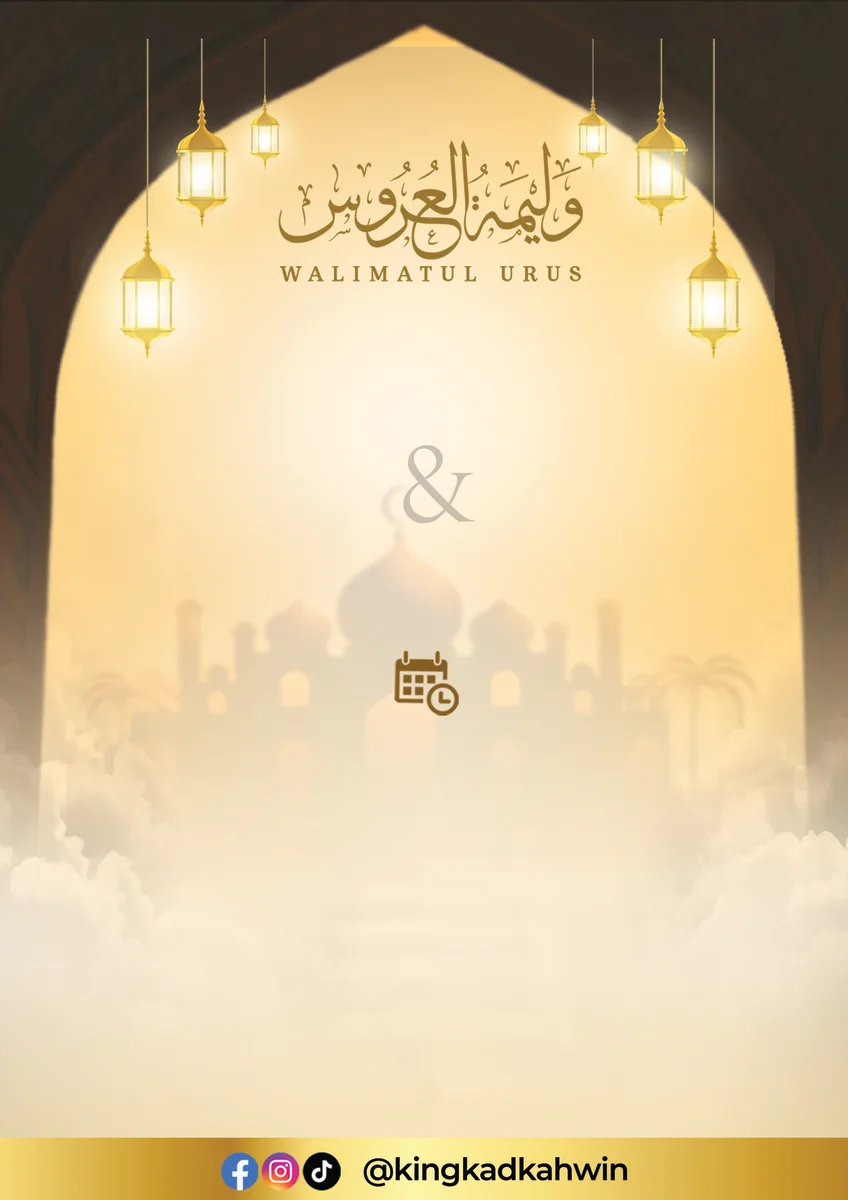
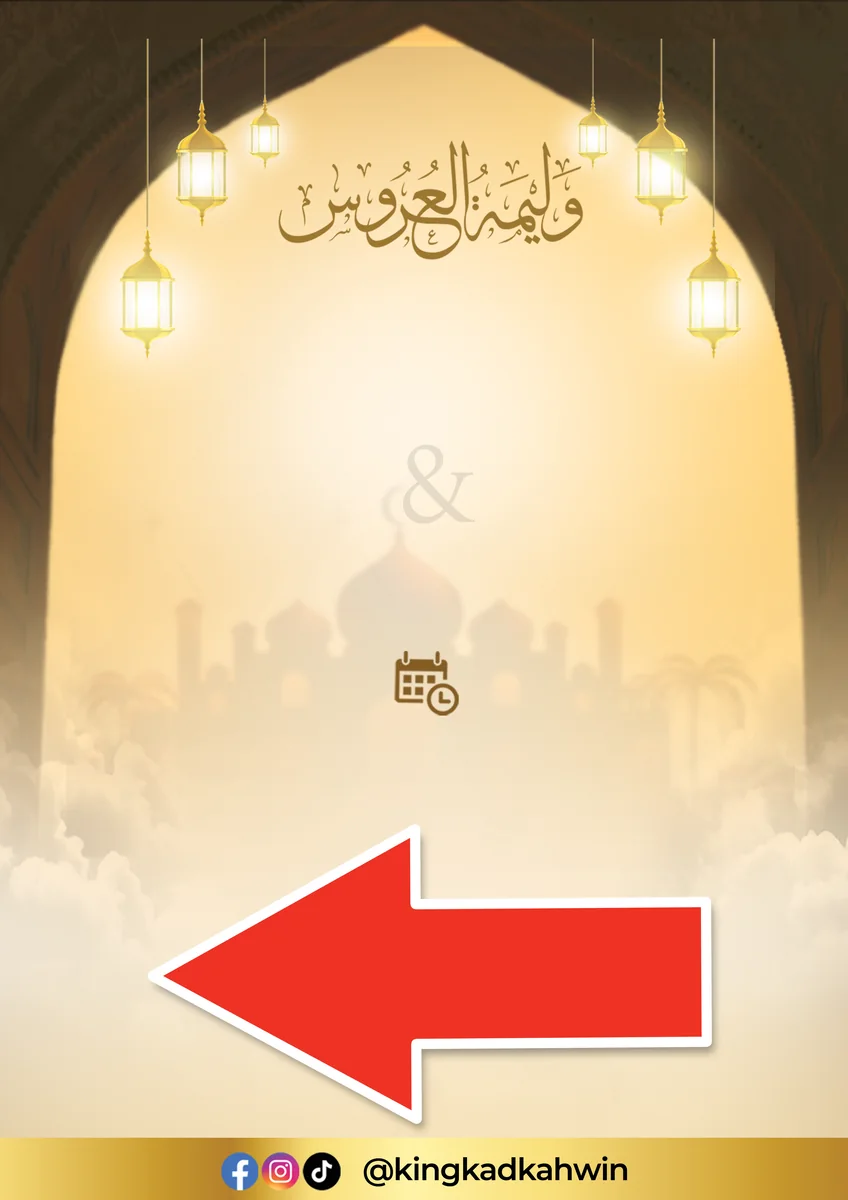
Fix missing catalog arrow previews

diff --git a/public/css/customer-preview-layout.css b/public/css/customer-preview-layout.css
@@ -2798,6 +2798,7 @@
     --preview-aspect-ratio: 310 / 437;
 }
 
+[data-preview-artwork-slot="arrow-left"][data-design-code="CKQ-007"],
 [data-preview-artwork-slot="arrow-right"][data-design-code="CKQ-007"] {
     --preview-couple-x: 51.59%;
     --preview-couple-y: 40.59%;
@@ -4110,18 +4111,7 @@
 
 /* Islamic */
 
-[data-preview-artwork-slot="arrow-left"][data-design-code="CKI-801"] {
-    --preview-couple-x: 51.75%;
-    --preview-couple-y: 40.35%;
-    --preview-couple-width: 84%;
-    --preview-ampersand-width: 10.04%;
-    --preview-ampersand-visibility: hidden;
-    --preview-kicker-display: none;
-    --preview-date-x: 50.43%;
-    --preview-date-y: 65.08%;
-    --preview-aspect-ratio: 620 / 877;
-}
-
+[data-preview-artwork-slot="arrow-left"][data-design-code="CKI-801"],
 [data-preview-artwork-slot="arrow-right"][data-design-code="CKI-801"] {
     --preview-couple-x: 51.75%;
     --preview-couple-y: 40.35%;
@@ -5323,6 +5313,7 @@
     --preview-aspect-ratio: 1 / 1;
 }
 
+[data-preview-artwork-slot="arrow-left"][data-design-code="CKI-816"],
 [data-preview-artwork-slot="arrow-right"][data-design-code="CKI-816"] {
     --preview-couple-x: 50.34%;
     --preview-couple-y: 43.8%;

diff --git a/public/css/customer-theme.css b/public/css/customer-theme.css
@@ -1667,17 +1667,19 @@ html[data-customer-theme="dark"] .wedding-card-back .card-social-logo {
     z-index: 2;
 }
 
-.catalog-left-arrow-marker {
+.live-product[data-artwork-unavailable] {
+    background: var(--surface, #f8f6f0);
+}
+
+.live-product[data-artwork-unavailable]::before,
+.live-product[data-artwork-unavailable]::after {
     display: none;
 }
 
-.live-product--arrow-left[data-design-code="CKI-801"] .catalog-left-arrow-marker {
-    position: absolute;
-    z-index: 1;
-    top: 67%;
-    left: 15%;
-    display: block;
-    width: 70%;
-    height: 28%;
-    filter: drop-shadow(2px 3px 2px #0004);
+.artwork-unavailable-message {
+    margin: auto;
+    padding: 1.5rem;
+    color: #625b4e;
+    font: 500 0.875rem/1.6 system-ui, sans-serif;
+    text-align: center;
 }

diff --git a/resources/views/orders/dashboard.blade.php b/resources/views/orders/dashboard.blade.php
@@ -1398,9 +1398,7 @@ document.addEventListener('DOMContentLoaded', function () {
         const artworkBase = @json(asset('images/designs'));
         const artworkDesignCodes = JSON.parse(form.dataset.designCodeOptions || '{}');
         const unavailableArtwork = {
-            'CKI-816': ['arrow-left'],
             'CKP-003': ['banner'],
-            'CKQ-007': ['arrow-left'],
         };
 
         function syncArtworkImage(image, source, label) {
@@ -1483,19 +1481,25 @@ document.addEventListener('DOMContentLoaded', function () {
                 const genericNameCopy = nameOverlay.querySelector('[data-desa-generic-copy]');
                 const productCustomNameCopy = nameOverlay.querySelector('[data-desa-product-custom-copy]');
                 const placeholder = product.querySelector('[data-desa-product-placeholder]');
+                const unavailableMessage = product.querySelector('[data-artwork-unavailable-message]');
+                const isUnavailable = hasArtwork && (unavailableArtwork[normalizedCode] || []).includes(type);
                 const isVipCard = type === 'vip-card';
                 const shouldShowArtwork = hasArtwork
                     && (!isVipCard || theme === 'portrait')
-                    && !(unavailableArtwork[normalizedCode] || []).includes(type);
+                    && !isUnavailable;
                 product.dataset.designCode = shouldShowArtwork ? normalizedCode : '';
                 product.toggleAttribute('data-design-artwork', shouldShowArtwork);
                 product.toggleAttribute('data-catalog-artwork', shouldShowArtwork && isCatalogArtwork);
+                product.toggleAttribute('data-artwork-unavailable', isUnavailable);
+                if (unavailableMessage) {
+                    unavailableMessage.hidden = !isUnavailable;
+                }
 
                 product.hidden = (type === 'card-back' || isVipCard) && !shouldShowArtwork;
                 nameOverlay.hidden = !shouldShowArtwork;
                 genericNameCopy.hidden = shouldShowArtwork;
                 productCustomNameCopy.hidden = !shouldShowArtwork;
-                placeholder.hidden = shouldShowArtwork;
+                placeholder.hidden = shouldShowArtwork || isUnavailable;
                 syncArtworkImage(artwork, shouldShowArtwork ? assetBase + type + '.webp' : '', normalizedCode + ' ' + themeName + ' ' + type.replaceAll('-', ' ') + ' design');
                 const hasPhotoMask = shouldShowArtwork && theme === 'portrait' && type !== 'wooden-hanger' && type !== 'card-back';
                 syncArtworkPhotoMask(product, hasPhotoMask ? assetBase + type + '-photo-mask.webp' : '');
@@ -1976,7 +1980,8 @@ document.addEventListener('DOMContentLoaded', function () {
                 const product = image.closest('.live-product');
                 const isBannerOrBunting = product?.classList.contains('live-product--banner')
                     || product?.classList.contains('live-product--banting');
-                const showProductPhoto = Boolean(photoUrl) && (theme === 'PORTRAIT' || isBannerOrBunting);
+                const showProductPhoto = Boolean(photoUrl) && (theme === 'PORTRAIT' || isBannerOrBunting)
+                    && !product?.hasAttribute('data-artwork-unavailable');
 
                 setImageSource(image, photoUrl, showProductPhoto);
             });

diff --git a/resources/views/orders/partials/card-preview.blade.php b/resources/views/orders/partials/card-preview.blade.php
@@ -195,6 +195,7 @@
 
             <div class="live-product-grid{{ ($order->package_type ?: $order->wabot_package_code) === 'PUTERI_MANIS' ? ' live-product-grid--puteri-manis' : '' }}">
                 <article class="live-product live-product--banner" data-live-product-theme data-desa-product="banner" data-preview-artwork-slot="banner">
+                    <p class="artwork-unavailable-message" data-artwork-unavailable-message hidden role="status">Banner preview is not available for this design yet.</p>
                     <img class="desa-product-artwork" data-desa-product-artwork alt="" hidden>
                                                             <div class="desa-product-name-overlay" data-desa-product-name-overlay hidden>
                         <div class="desa-product-generic-copy" data-desa-generic-copy>
@@ -238,9 +239,6 @@
 
                 <article class="live-product live-product--arrow live-product--arrow-left" data-live-product-theme data-desa-product="arrow-left" data-preview-artwork-slot="arrow-left">
                     <img class="desa-product-artwork" data-desa-product-artwork alt="" hidden>
-                    <svg class="catalog-left-arrow-marker" viewBox="0 0 600 250" preserveAspectRatio="none" aria-hidden="true" focusable="false">
-                        <path d="M22 125 260 20v52h315v106H260v52Z" fill="#ef2b1c" stroke="#fff" stroke-width="10" stroke-linejoin="round" />
-                    </svg>
                     <img class="catalog-preview-photo" data-live-photo-preview="artwork" alt="Uploaded customer photo preview" hidden>
                                                             <div class="desa-product-name-overlay" data-desa-product-name-overlay hidden>
                         <div class="desa-product-generic-copy" data-desa-generic-copy>

diff --git a/tests/Feature/Orders/CustomerDashboardAccessTest.php b/tests/Feature/Orders/CustomerDashboardAccessTest.php
@@ -88,7 +88,7 @@ class CustomerDashboardAccessTest extends TestCase
 
         $slots = ['arrow-left', 'arrow-right', 'banner', 'bunting', 'card-back', 'card-front', 'sticker', 'wooden-hanger'];
         $codeCounts = ['AKIKAH' => 8, 'ARCH' => 24, 'DESA' => 8, 'GARDEN' => 8, 'ISLAMIC' => 24, 'NOSTALGIA' => 8, 'PORTRAIT' => 8];
-        $missingArtwork = ['CKI-816' => 'arrow-left', 'CKP-003' => 'banner', 'CKQ-007' => 'arrow-left'];
+        $missingArtwork = ['CKP-003' => 'banner'];
 
         foreach ($codeCounts as $theme => $count) {
             $codes = config("kingkadkahwin.design_codes.{$theme}");
